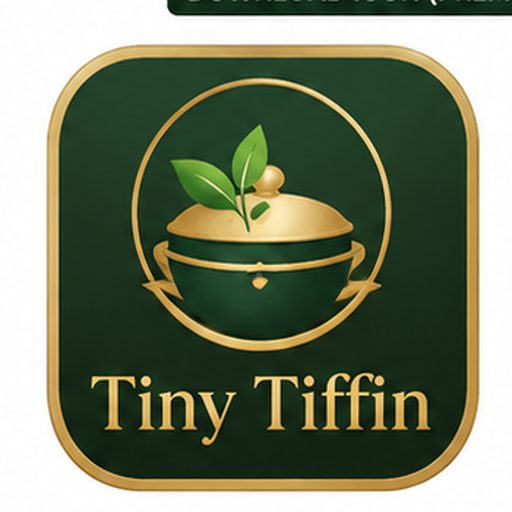
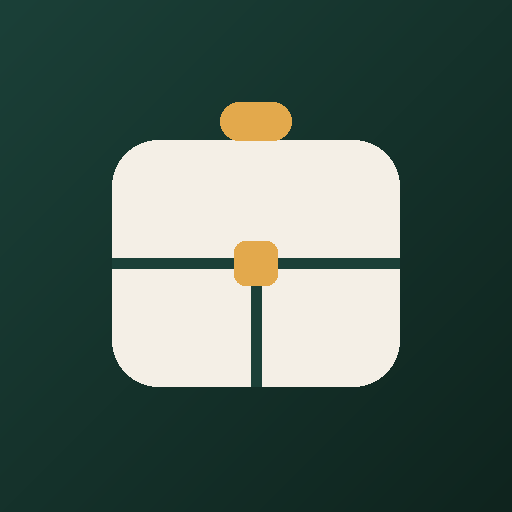
Add files via upload

diff --git a/app.js b/app.js
@@ -252,19 +252,7 @@
   }
 
   /* ---------------- mascot ---------------- */
-  function mascotSVG(size) {
-    size = size || 34;
-    return `<svg class="mascot-face" width="${size}" height="${size}" viewBox="0 0 100 100" xmlns="http://www.w3.org/2000/svg" aria-hidden="true">
-      <rect width="100" height="100" rx="22" fill="#2B4E32"/>
-      <path d="M38 14 a12 12 0 0 1 24 0" stroke="#8C97A5" stroke-width="5" fill="none"/>
-      <rect x="12" y="20" width="76" height="32" rx="12" fill="#8C97A5"/>
-      <rect x="16" y="40" width="68" height="48" rx="14" fill="#E5A431"/>
-      <circle cx="36" cy="62" r="6" fill="#20272B"/><circle cx="64" cy="62" r="6" fill="#20272B"/>
-      <circle cx="38.5" cy="59.5" r="2" fill="#fff"/><circle cx="66.5" cy="59.5" r="2" fill="#fff"/>
-      <path d="M38 72 q12 10 24 0" stroke="#20272B" stroke-width="3.5" fill="none" stroke-linecap="round"/>
-      <circle cx="22" cy="63" r="5" fill="#C1440E" opacity="0.45"/><circle cx="78" cy="63" r="5" fill="#C1440E" opacity="0.45"/>
-    </svg>`;
-  }
+  function premiumLogoSVG(size = 42) { return `<svg width="${size}" height="${size}" viewBox="0 0 200 200" role="img" aria-label="Tiny Tiffin"><defs><linearGradient id="ttBentoBg" x1="0" y1="0" x2="1" y2="1"><stop offset="0%" stop-color="#1B4038"/><stop offset="100%" stop-color="#0F241E"/></linearGradient></defs><rect width="200" height="200" rx="44" fill="url(#ttBentoBg)"/><rect x="86" y="40" width="28" height="15" rx="7.5" fill="#E3A94C"/><rect x="44" y="55" width="112" height="96" rx="18" fill="#F4EFE6"/><path d="M44 103h112M100 103v48" stroke="#1B4038" stroke-width="4.5"/><rect x="91.5" y="94.5" width="17" height="17" rx="4.5" fill="#E3A94C"/></svg>`; }
 
   /* ---------------- rendering ---------------- */
   const root = document.getElementById("app");
@@ -319,8 +307,7 @@
     return `
       <header class="app-header">
         <div class="wrap header-row">
-          <div class="brand-wrap"><div class="mascot brand"><span class="brand-icon-wrap">${mascotSVG(38)}<span class="ai-brand-badge" title="AI-powered features" aria-label="AI-powered features">AI</span></span><span>Tiny Tiffin</span></div><div class="app-tagline">${t("tagline")}</div></div>
-
+          <div class="brand-wrap"><div class="mascot brand"><span class="brand-icon-wrap premium-logo-mark" aria-hidden="true">${premiumLogoSVG(42)}</span><span>Tiny Tiffin</span></div><div class="app-tagline">${t("tagline")}</div></div>
           <div class="header-controls">
             <button class="theme-toggle install-action" id="install-btn" aria-label="Install app">⬇ Install</button>
             <button class="theme-toggle install-action" id="update-btn" aria-label="Check for software update">↻ Update</button>
@@ -420,9 +407,9 @@
         <input type="text" id="smart-search" placeholder="${t('searchPlaceholder')}" value="${escapeAttr(state.filters.smartSearch)}">
       </div>
 
-      <section class="shopping-strip" style="display:grid;grid-template-columns:repeat(auto-fit,minmax(250px,1fr));gap:12px;margin:16px 0 20px">
-        <article style="background:var(--card);border-left:5px solid var(--masala);border-radius:16px;padding:16px;box-shadow:var(--shadow)"><h3 style="margin:0 0 6px;color:var(--masala)">🛒 Shop on Amazon Fresh</h3><p class="desc" style="margin:0 0 12px">Fresh fruits, vegetables, dairy, grains and everyday groceries.</p><a class="btn btn-primary" href="${(CONFIG.affiliate && CONFIG.affiliate.amazonFreshUrl) || 'https://www.amazon.in/fresh'}" target="_blank" rel="sponsored noopener">Shop now →</a></article>
-        <article style="background:var(--card);border-left:5px solid var(--turmeric);border-radius:16px;padding:16px;box-shadow:var(--shadow)"><h3 style="margin:0 0 6px;color:var(--ink)">🛍 Shop on Amazon</h3><p class="desc" style="margin:0 0 12px">Find pantry ingredients, kitchen essentials and more.</p><a class="btn btn-secondary" href="${(CONFIG.affiliate && CONFIG.affiliate.amazonUrl) || 'https://www.amazon.in/'}" target="_blank" rel="sponsored noopener">Shop now →</a></article>
+      <section class="shopping-strip" style="display:grid;grid-template-columns:repeat(2,minmax(0,1fr));gap:9px;margin:12px 0 18px">
+        <article style="background:var(--card);border:1px solid var(--mist-2);border-radius:14px;padding:11px 12px;box-shadow:var(--shadow);display:flex;align-items:center;gap:10px"><span style="font-size:1.35rem">🥬</span><div style="min-width:0;flex:1"><h3 style="margin:0 0 2px;color:var(--masala);font-size:.9rem">Amazon Fresh</h3><p class="desc" style="margin:0;font-size:.72rem;line-height:1.25">Fresh groceries</p></div><a class="btn btn-primary" style="padding:7px 10px;font-size:.72rem;white-space:nowrap" href="${(CONFIG.affiliate && CONFIG.affiliate.amazonFreshUrl) || 'https://www.amazon.in/fresh'}" target="_blank" rel="sponsored noopener">Shop →</a></article>
+        <article style="background:var(--card);border:1px solid var(--mist-2);border-radius:14px;padding:11px 12px;box-shadow:var(--shadow);display:flex;align-items:center;gap:10px"><span style="font-size:1.35rem">🛍</span><div style="min-width:0;flex:1"><h3 style="margin:0 0 2px;color:var(--ink);font-size:.9rem">Amazon</h3><p class="desc" style="margin:0;font-size:.72rem;line-height:1.25">Kitchen & pantry</p></div><a class="btn btn-secondary" style="padding:7px 10px;font-size:.72rem;white-space:nowrap" href="${(CONFIG.affiliate && CONFIG.affiliate.amazonUrl) || 'https://www.amazon.in/'}" target="_blank" rel="sponsored noopener">Shop →</a></article>
       </section>
 
       <section class="filters">

diff --git a/sw.js b/sw.js
@@ -2,7 +2,7 @@
    Caches the app shell on install so it opens without a network
    connection after the first visit. Bump CACHE_NAME when you
    change any of the cached files so users get the update. */
-const CACHE_NAME = "tiny-tiffin-v1-0-contact-fix-2";
+const CACHE_NAME = "tiny-tiffin-v1-1-bento-logo";
 const SHELL_FILES = [
   "./",
   "./index.html",
@@ -15,6 +15,9 @@ const SHELL_FILES = [
   "./site-config.js",
   "./store.js",
   "./manifest.json"
+  ,"./icon-192.png"
+  ,"./icon-512.png"
+  ,"./apple-touch-icon.png"
 ];
 
 self.addEventListener("install", (event) => {
